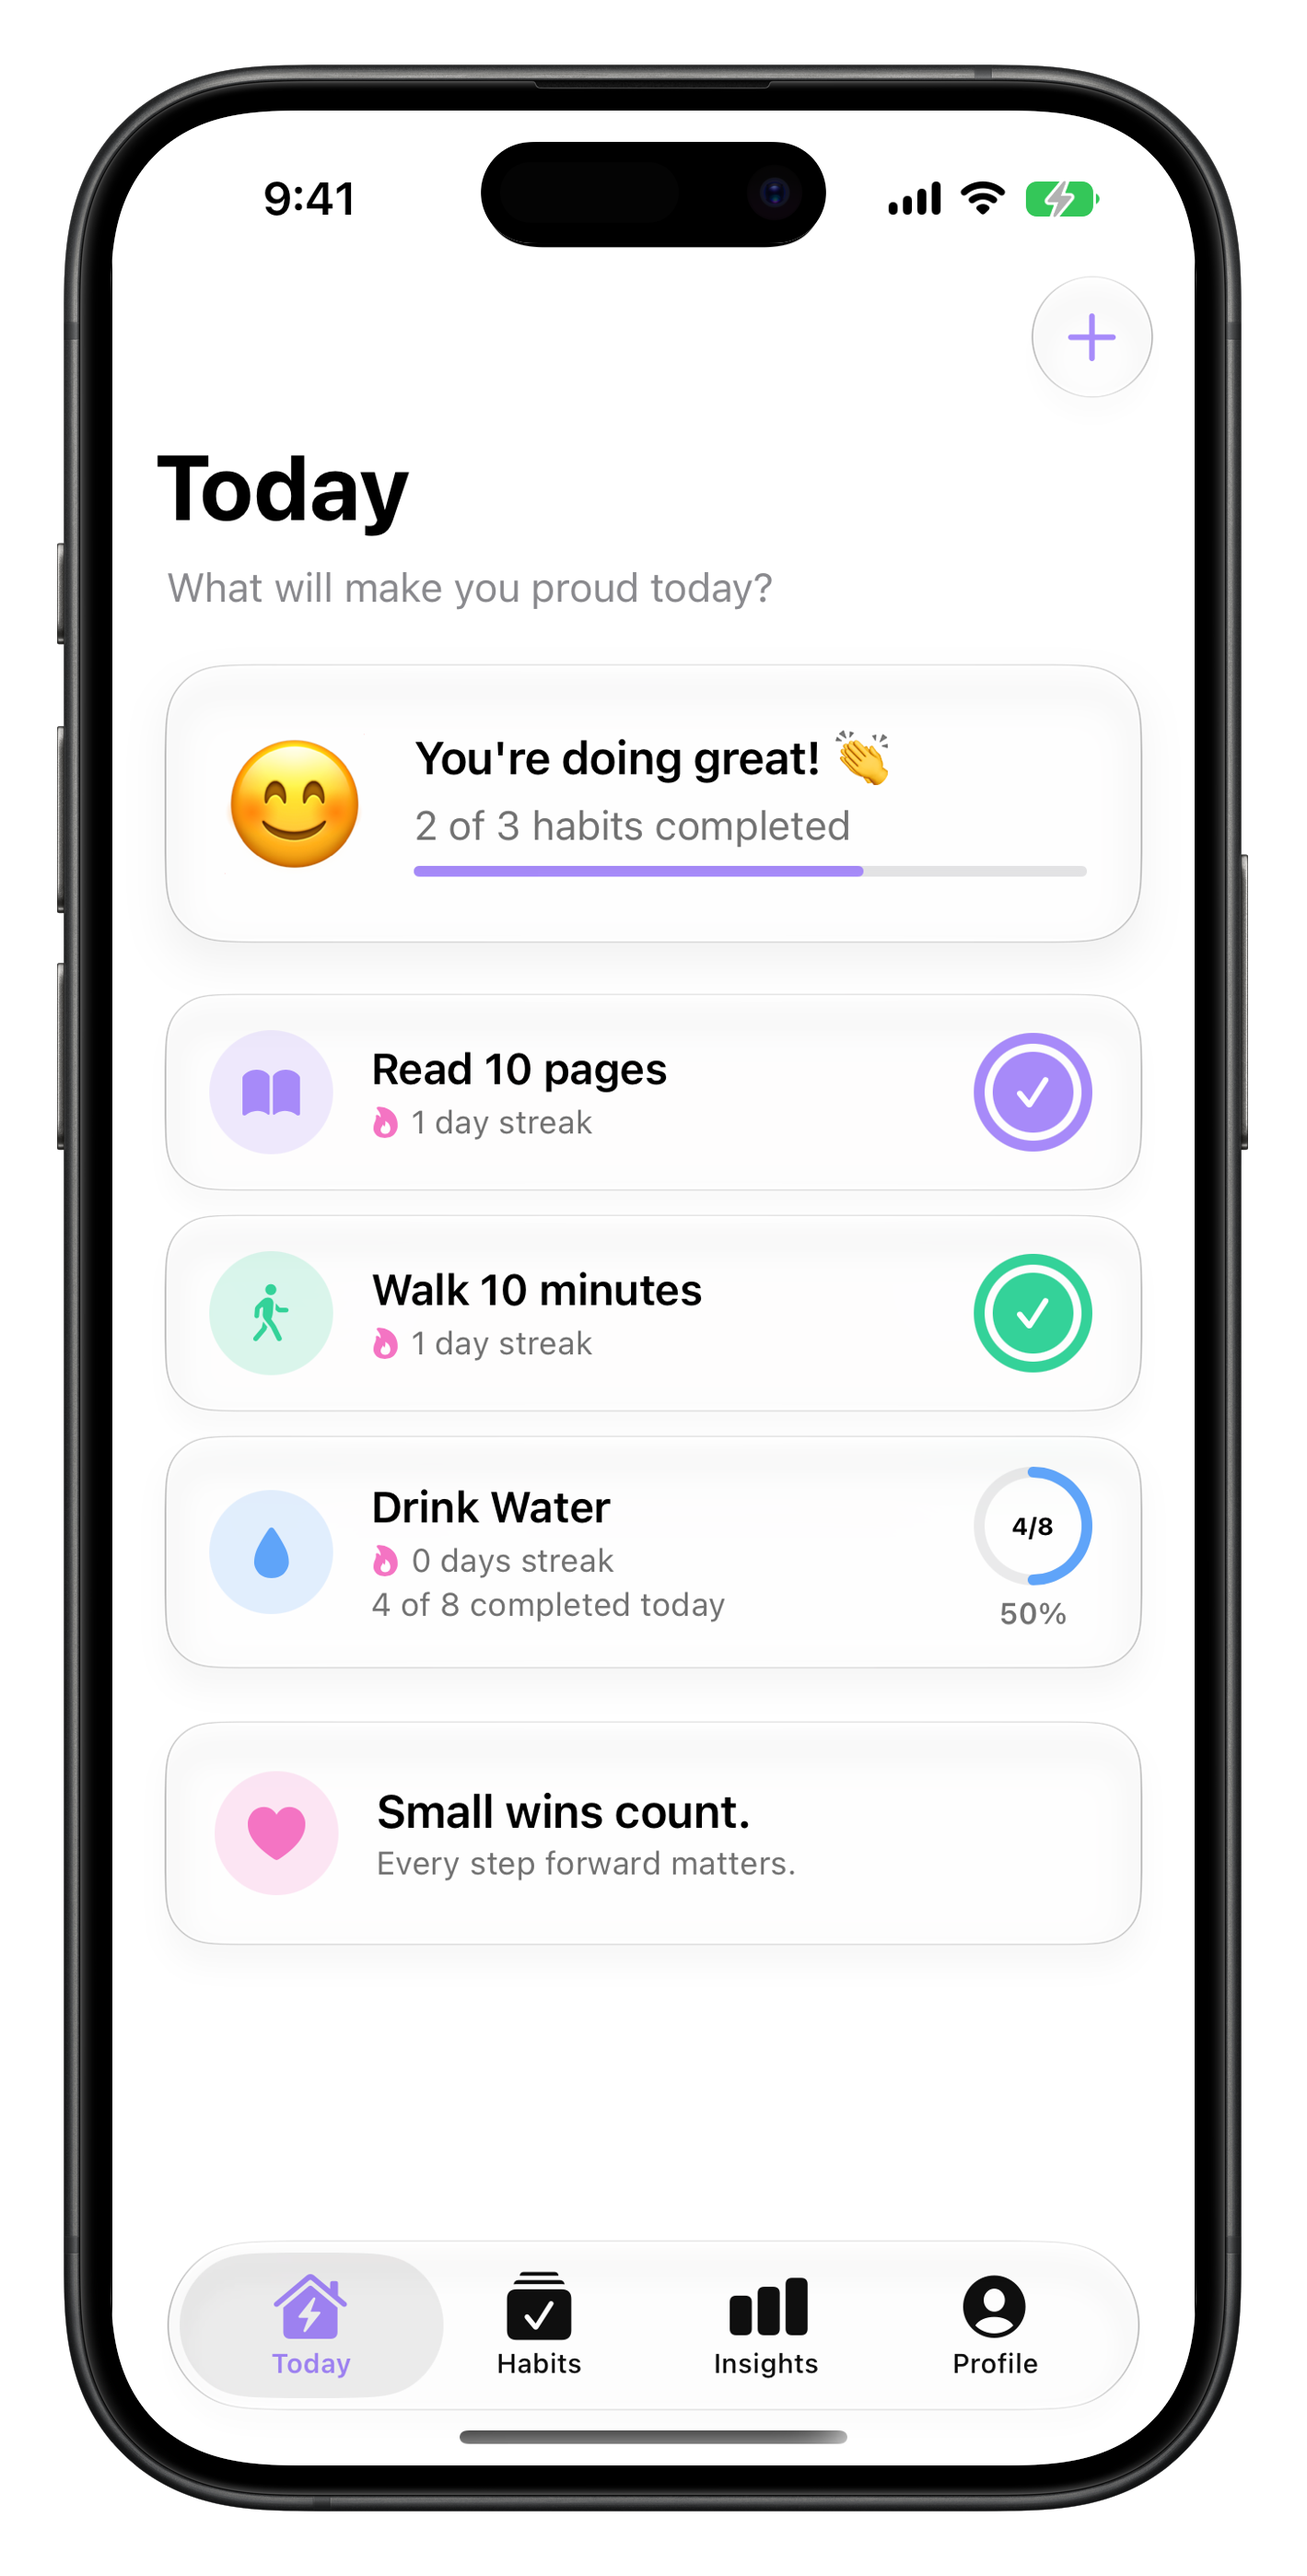
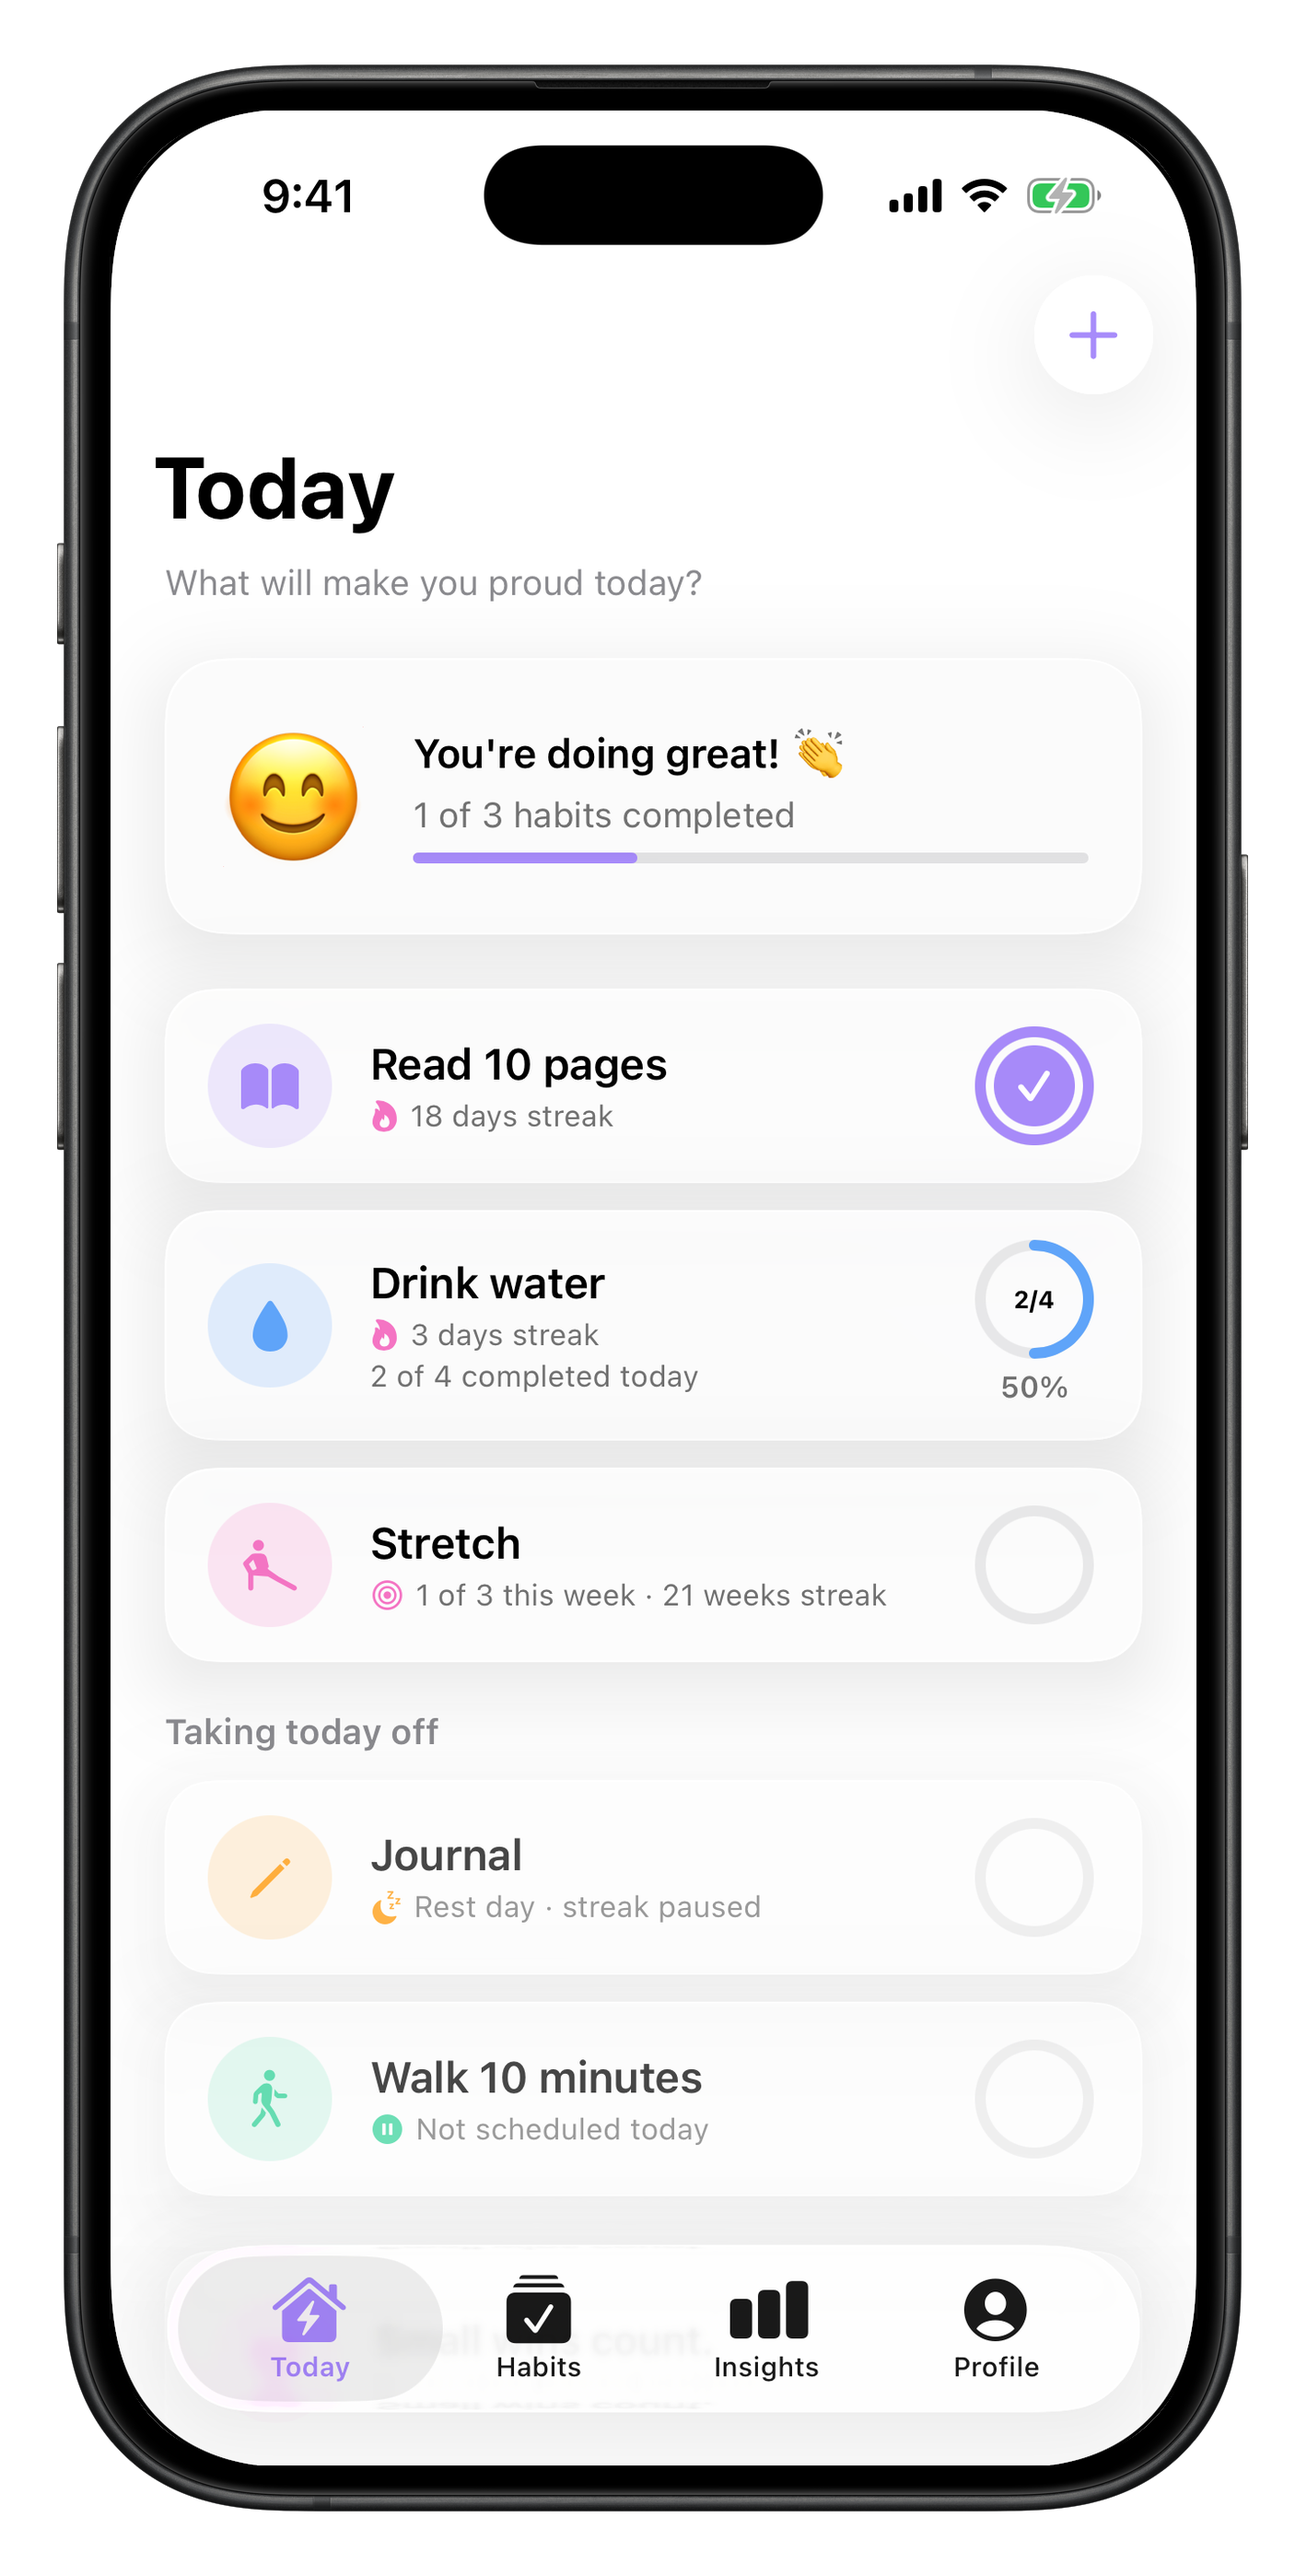
Add widgets, schedules, and rest days to landing page

diff --git a/components/landing/feature-showcase.tsx b/components/landing/feature-showcase.tsx
@@ -6,31 +6,41 @@ import { deviceBlurDataURL } from "@/lib/image-placeholders";
 const SHOWCASES = [
   {
     id: "habit",
-    eyebrow: "Gentle progress",
-    headline: "See progress without pressure.",
-    body: "View current streaks, best streaks, and recent completions in a way that feels calm, encouraging, and easy to return to.",
-    phoneFirst: false,
-    muted: false,
+    eyebrow: "Your history",
+    headline: "See every small win at a glance.",
+    body: "Each habit gets its own calendar grid, so your progress builds into a picture you can be proud of. Current streak, best streak, and every check-in, all in one calm view.",
     src: "/assets/device-2.png",
-    alt: "Proudly habit progress screen showing streaks and recent completions",
+    alt: "Proudly Habits tab showing a calendar grid of check-ins for each habit",
   },
   {
     id: "flexible",
-    eyebrow: "Flexible habits",
+    eyebrow: "Flexible schedules",
     headline: "Build habits your way.",
-    body: "Track simple once-a-day habits or goals you complete multiple times a day, from reading a few pages to drinking more water.",
-    phoneFirst: true,
-    muted: true,
+    body: "Run a habit every day, on certain days like Mon, Wed and Fri, or set a weekly goal like 3× a week. Track it once a day or a few times, from reading a few pages to drinking more water.",
     src: "/assets/device-3.png",
-    alt: "Proudly habit setup screen for creating a flexible daily habit",
+    alt: "Proudly habit editor showing schedule options with Monday, Wednesday and Friday selected",
+  },
+  {
+    id: "rest-days",
+    eyebrow: "Rest days",
+    headline: "Take a break without losing your streak.",
+    body: "Mark a rest day and your streak pauses instead of breaking. Days a habit isn't scheduled never count against you either, because rest is part of progress.",
+    src: "/assets/device-18.png",
+    alt: "Proudly habit page on a rest day showing the streak paused",
+  },
+  {
+    id: "widgets",
+    eyebrow: "Widgets",
+    headline: "Check in right from your Home Screen.",
+    body: "Tap a habit in the Today widget to mark it done without opening the app. With Proudly Plus, add single-habit widgets to your Home Screen and Lock Screen.",
+    src: "/assets/device-16.png",
+    alt: "iPhone Home Screen with Proudly's Today widget and single-habit widget",
   },
   {
     id: "kind",
     eyebrow: "Kind reminders",
     headline: "Gentle reminders for your routine.",
-    body: "Set soft local reminders that help you check in at the right time without pressure, noise, or guilt.",
-    phoneFirst: false,
-    muted: false,
+    body: "Set soft local reminders that help you check in at the right time, only on the days a habit runs, without pressure, noise, or guilt.",
     src: "/assets/device-4.png",
     alt: "Proudly reminder settings screen for gentle habit reminders",
   },
@@ -38,13 +48,16 @@ const SHOWCASES = [
     id: "plus",
     eyebrow: "Proudly Plus",
     headline: "More room for your small wins.",
-    body: "Unlock unlimited habits, iCloud sync across your Apple devices, monthly history, custom themes, Proud Moments, and deeper insights — momentum trends, weekday patterns, a 30-day consistency score, and a 6-month heatmap.",
-    phoneFirst: true,
-    muted: true,
+    body: "Unlock unlimited habits, Home and Lock Screen habit widgets, iCloud sync across your Apple devices, monthly history, custom themes, Proud Moments, and deeper insights: momentum trends, weekday patterns, a 30-day consistency score, and a 6-month heatmap.",
     src: "/assets/device-5.png",
     alt: "Proudly Plus screen showing premium habit tracking features",
   },
-];
+].map((s, index) => ({
+  ...s,
+  // Alternate the phone side and section background down the page.
+  phoneFirst: index % 2 === 1,
+  muted: index % 2 === 1,
+}));
 
 export function FeatureShowcase() {
   return (

diff --git a/components/landing/apple-style-feature-carousel.tsx b/components/landing/apple-style-feature-carousel.tsx
@@ -14,6 +14,24 @@ type CarouselFeatureItem = {
 
 const carouselItems: CarouselFeatureItem[] = [
   {
+    altName: "Lock Screen widgets",
+    eyebrow: "Lock Screen",
+    heading: "Your habit, one glance away.",
+    body: "Put a habit on your Lock Screen to see today's progress and your streak, and check in with a tap. Part of Proudly Plus.",
+    imageSrc: "/assets/device-17.png",
+    imageAlt:
+      "iPhone Lock Screen with Proudly habit widgets showing a completed habit and its streak",
+  },
+  {
+    altName: "Weekly goals",
+    eyebrow: "Weekly goals",
+    heading: "Aim for 3× a week, not every day.",
+    body: "Set a weekly goal and check in on any days you like. Your streak counts the weeks you hit your goal.",
+    imageSrc: "/assets/device-19.png",
+    imageAlt:
+      "Proudly habit page for a 3× a week goal showing a 21-week streak",
+  },
+  {
     altName: "Monthly History",
     eyebrow: "Full month view",
     heading: "See your whole month at a glance.",
@@ -88,7 +106,7 @@ const carouselItems: CarouselFeatureItem[] = [
     altName: "Proudly Plus",
     eyebrow: "Upgrade",
     heading: "Unlock more room to grow.",
-    body: "Upgrade when you want unlimited habits, custom themes, Proud Moments history, and deeper progress insights.",
+    body: "Upgrade when you want unlimited habits, habit widgets for your Home and Lock Screen, custom themes, Proud Moments history, and deeper progress insights.",
     imageSrc: "/assets/device-11.png",
     imageAlt:
       "Proudly Plus screen showing unlimited habits, custom themes, Proud Moments, and progress insights",
@@ -136,8 +154,8 @@ export function AppleStyleFeatureCarousel() {
             .
           </h2>
           <p className="mx-auto mt-5 max-w-2xl text-[#6F6478] text-base leading-relaxed sm:text-lg dark:text-white/72">
-            Proudly brings your habits, progress, themes, subscription status,
-            and proud moments together in one calm place.
+            Proudly brings your habits, widgets, progress, themes, and proud
+            moments together in one calm place.
           </p>
         </FadeIn>
       </div>

diff --git a/lib/seo.ts b/lib/seo.ts
@@ -65,12 +65,27 @@ export const FAQ_ITEMS = [
   {
     question: "What is Proudly Plus?",
     answer:
-      "Proudly Plus unlocks unlimited habits, custom themes, Proud Moments history, and advanced progress insights.",
+      "Proudly Plus unlocks unlimited habits, Home and Lock Screen habit widgets, iCloud sync, custom themes, Proud Moments history, and advanced progress insights.",
   },
   {
     question: "Can I track habits multiple times per day?",
     answer:
       "Yes. Proudly supports habits that can be completed more than once per day, such as drinking water four times a day.",
+  },
+  {
+    question: "Can I choose which days a habit runs?",
+    answer:
+      "Yes. A habit can run every day, on certain days like Monday, Wednesday and Friday, or toward a weekly goal like 3 times a week. Days a habit isn't scheduled never break your streak.",
+  },
+  {
+    question: "What is a rest day?",
+    answer:
+      "A rest day lets you take a day off from a habit without losing your streak. Your streak pauses instead of breaking, and picks up again when you next check in.",
+  },
+  {
+    question: "Does Proudly have widgets?",
+    answer:
+      "Yes. The free Today widget shows today's habits and lets you check them off with one tap. Proudly Plus adds single-habit widgets for the Home Screen and Lock Screen.",
   },
   {
     question: "Does Proudly support reminders?",
@@ -107,7 +122,7 @@ export const FAQ_ITEMS = [
   },
 ] as const;
 
-export const HOME_FAQ_ITEMS = FAQ_ITEMS.slice(0, 6);
+export const HOME_FAQ_ITEMS = FAQ_ITEMS.slice(0, 8);
 
 export function absoluteUrl(path = "/") {
   return new URL(path, siteUrl).toString();

diff --git a/components/landing/hero.tsx b/components/landing/hero.tsx
@@ -50,7 +50,7 @@ export function Hero() {
         <div className="pointer-events-none absolute top-1/2 left-1/2 size-80 -translate-x-1/2 -translate-y-1/2 rounded-full bg-primary/15 blur-3xl" />
         <PhoneMockup className="relative">
           <Image
-            alt="Do one thing today that makes you proud"
+            alt="Proudly Today screen with habits to check off and two habits taking a rest day"
             blurDataURL={deviceBlurDataURL}
             className="h-auto w-65 sm:w-75"
             height={2796}

diff --git a/app/page.tsx b/app/page.tsx
@@ -51,6 +51,9 @@ const jsonLd = {
         "Set local reminders",
         "Build streaks",
         "Track habits multiple times per day",
+        "Schedule habits on certain days or as a weekly goal",
+        "Take rest days without breaking your streak",
+        "Check in from Home Screen and Lock Screen widgets",
         "View Proud Moments history",
         "Customize themes with Proudly Plus",
       ],

diff --git a/components/landing/proudly-plus.tsx b/components/landing/proudly-plus.tsx
@@ -3,6 +3,7 @@ import { FadeIn } from "@/components/common/motion";
 
 const BENEFITS = [
   "Unlimited habits",
+  "Home & Lock Screen habit widgets",
   "Custom themes",
   "Proud Moments history",
   "Advanced progress insights",
